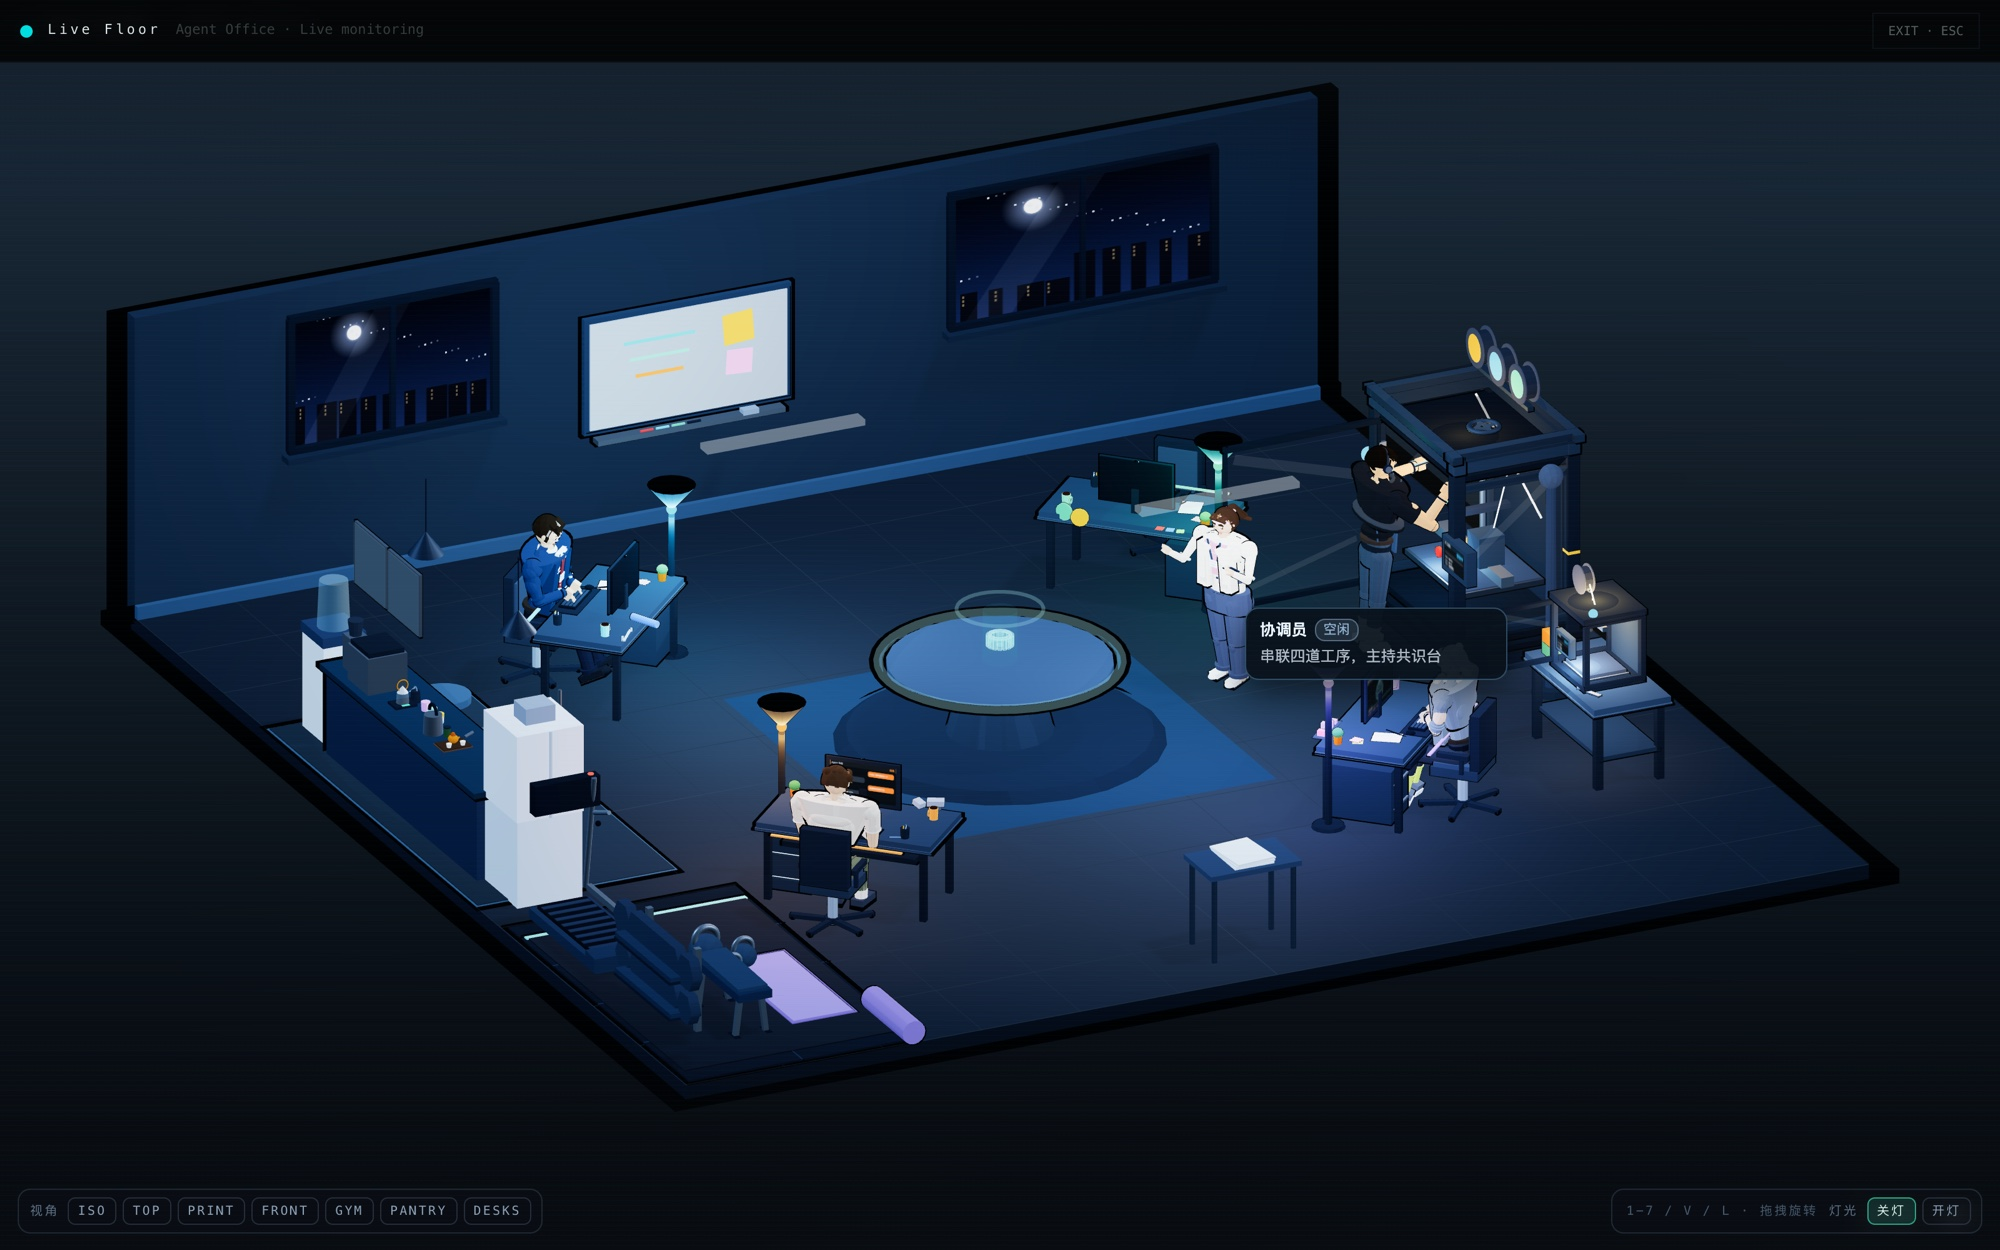
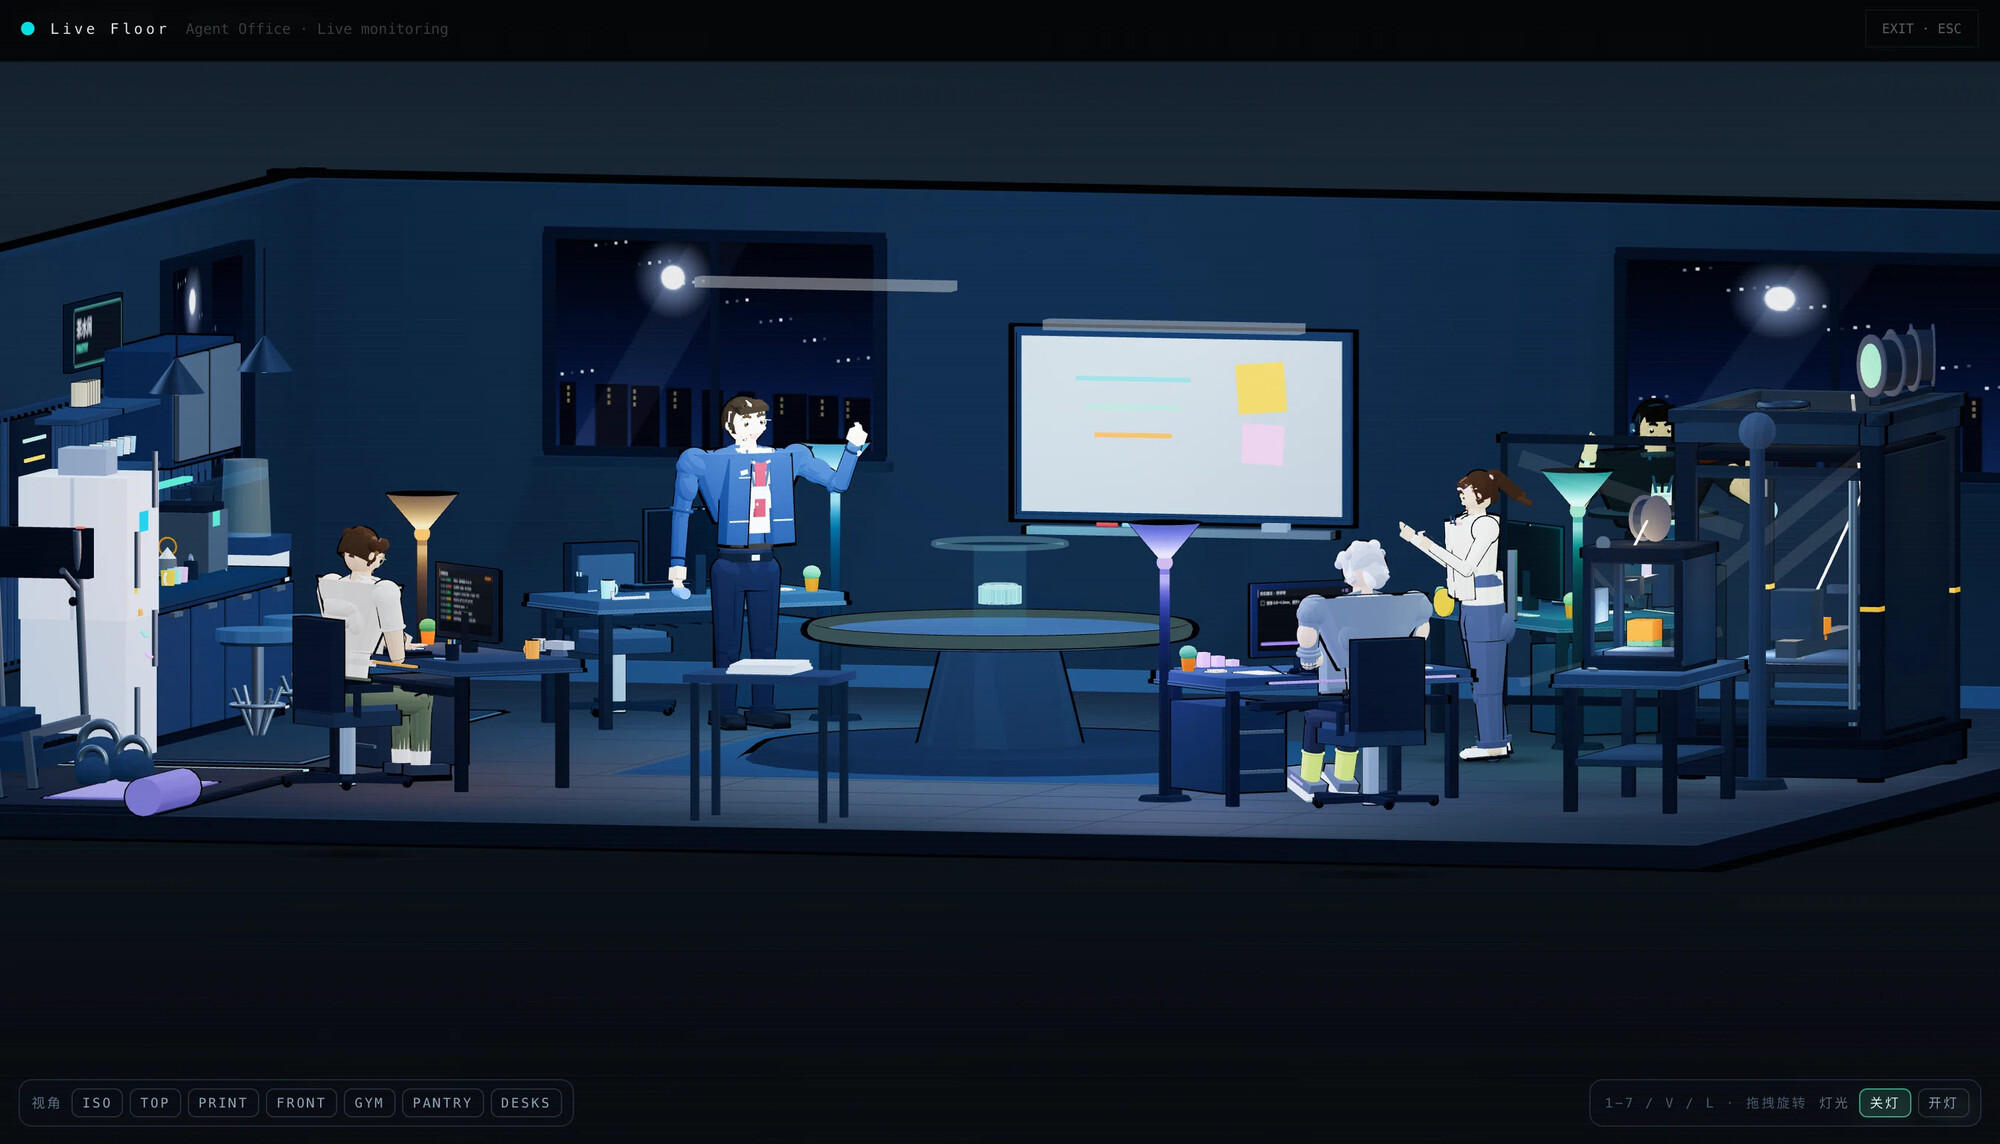
docs: use the fullscreen Live Floor still instead of the zoomed GIF
The user's own capture is 2707x1549 and sharp; the GIF was a 620px crop and read
soft at README width. Swapped office.gif (844KB) for office.jpg (384KB), which
also drops a 4MB page weight. Caption now names the preset views.

Captured at deviceScaleFactor 1 from the app itself (not a video frame).

diff --git a/README.md b/README.md
@@ -126,7 +126,7 @@ CHANGES SINCE UPLOAD
 <br />
 
 <div align="center">
-  <sub>A Sand3D <code>.usda</code> scene imported straight into the app — two flags in <code>scripts/usda-to-stl.py</code> and it lands in a printable pose.<br />
+  <sub><b>Import note.</b> A Sand3D <code>.usda</code> scene goes straight in — two flags in <code>scripts/usda-to-stl.py</code> and it lands in a printable pose.<br />
   The body stays neutral on purpose; the cube button switches on a <b>material preview</b> swatch without touching any measurement.</sub>
 </div>
 
@@ -149,9 +149,10 @@ into one weighted verdict — with the disagreements kept visible.
 <br />
 
 <div align="center">
-  <img src="docs/media/office.gif" width="820" alt="The four agents working in the Live Floor office" />
+  <img src="docs/media/office.jpg" width="900" alt="The Live Floor: four agents at their desks in the fullscreen office" />
   <br />
-  <sub>The Live Floor: four agents at their desks, each reporting what it found — orbit the room while they work.</sub>
+  <sub>The Live Floor, fullscreen: four agents at their desks, each reporting what it found.<br />
+  Orbit the room, or jump to a preset view — ISO, TOP, PRINT, FRONT, GYM, PANTRY, DESKS.</sub>
 </div>
 
 <br />
